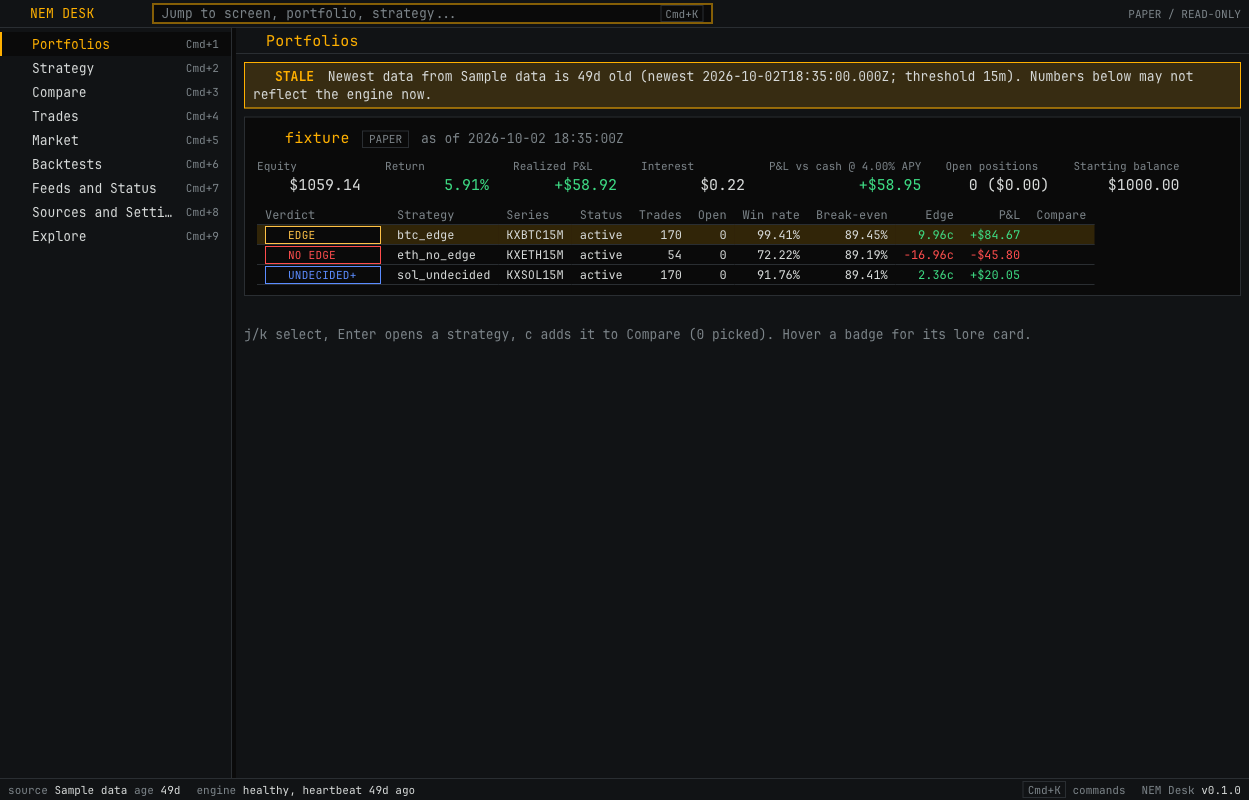
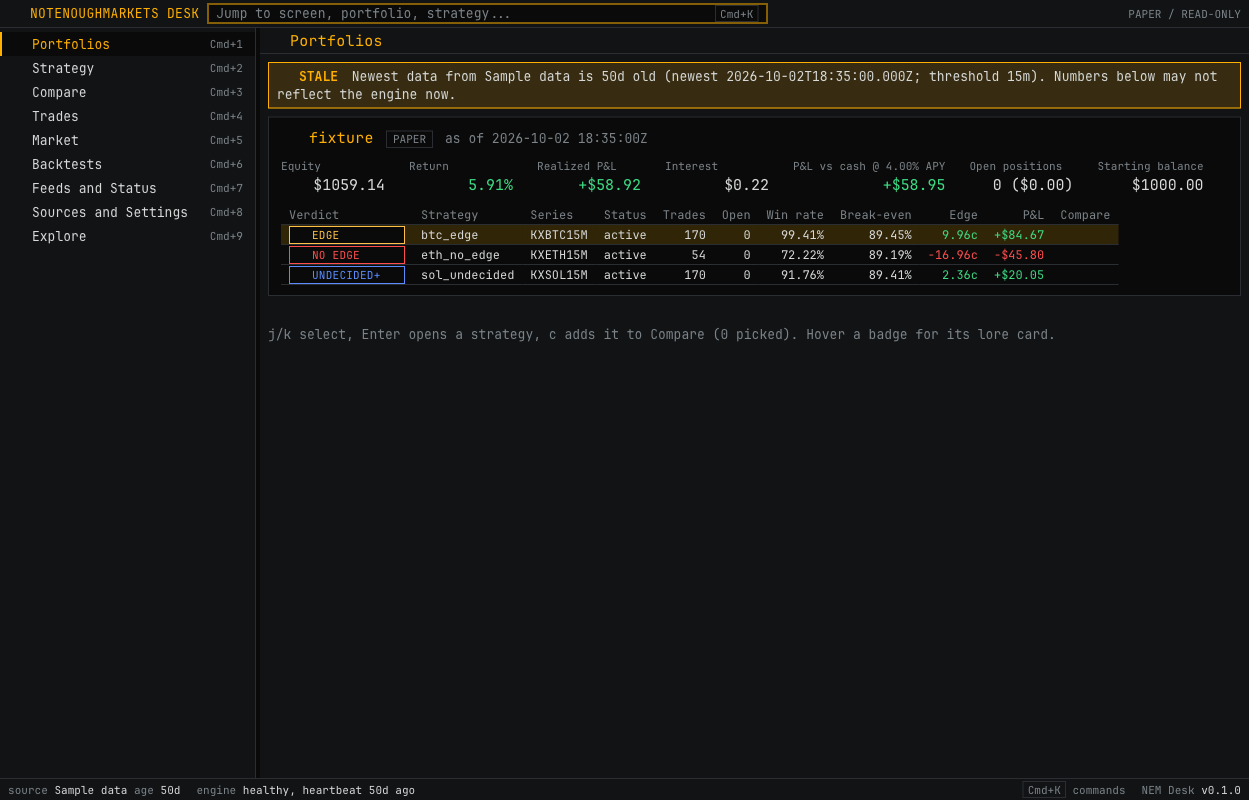
README: tutorial with NEM Desk screenshots; desk shows full NotEnoughMarkets name, wider nav

diff --git a/apps/desk/e2e/screenshots.spec.ts b/apps/desk/e2e/screenshots.spec.ts
@@ -52,15 +52,21 @@ test.afterAll(async () => {
 async function shot(name: string): Promise<void> {
   // The sample DB's absolute path (Market screen) becomes repo-relative; after that nothing
   // private may be on screen: no home folder, no OS user name.
-  await page.evaluate((prefix) => {
-    const walker = document.createTreeWalker(document.body, NodeFilter.SHOW_TEXT);
-    for (let n = walker.nextNode(); n !== null; n = walker.nextNode()) {
-      if (n.textContent?.includes(prefix) === true) n.textContent = n.textContent.replaceAll(prefix, "");
-    }
-  }, `${repoRoot}/`);
+  // The throwaway profile lives in the OS temp folder; show it as the app's data folder.
+  await page.evaluate(
+    ([prefix, profile]) => {
+      const walker = document.createTreeWalker(document.body, NodeFilter.SHOW_TEXT);
+      for (let n = walker.nextNode(); n !== null; n = walker.nextNode()) {
+        if (n.textContent?.includes(profile) === true) n.textContent = n.textContent.replaceAll(profile, "<app data>");
+        if (n.textContent?.includes(prefix) === true) n.textContent = n.textContent.replaceAll(prefix, "");
+      }
+    },
+    [`${repoRoot}/`, join(work, "profile")] as const,
+  );
   const text = await page.evaluate(() => document.body.innerText);
   expect(text).not.toContain(homedir());
   expect(text.toLowerCase()).not.toContain(userInfo().username.toLowerCase());
+  expect(text).not.toContain(work);
   if (shotDir === undefined) return;
   await page.mouse.move(0, 0);
   await page.screenshot({ path: resolve(appDir, shotDir, `${name}.png`), scale: "css", animations: "disabled" });
@@ -107,6 +113,8 @@ async function tour(visit: (name: string) => Promise<void>): Promise<void> {
 }
 
 test("load sample data", async () => {
+  await expect(page.getByRole("button", { name: "Load sample data" })).toBeVisible();
+  await shot("welcome");
   await page.getByRole("button", { name: "Load sample data" }).click();
   await expect(page.getByRole("region", { name: "Portfolio fixture" })).toBeVisible();
 });
@@ -126,6 +134,16 @@ test("main screens with pixel accents on", async () => {
   if (shotDir !== undefined) {
     await page.screenshot({ path: resolve(appDir, shotDir, "lore-card.png"), scale: "css", animations: "disabled" });
   }
+  // Sources and Settings, and the command palette, for the README tutorial.
+  await page.keyboard.press("Escape");
+  await page.keyboard.press(`${mod}+8`);
+  await expect(page.getByRole("table", { name: "Sources" })).toBeVisible();
+  await shot("settings");
+  await page.keyboard.press(`${mod}+k`);
+  await page.keyboard.type("explore KXHIGH");
+  await expect(page.getByRole("dialog")).toBeVisible();
+  await shot("palette");
+  await page.keyboard.press("Escape");
 });
 
 test("pixel accents off: no pixel font, icon or pixel frame on any screen", async () => {

diff --git a/apps/desk/src/renderer/state/settings.ts b/apps/desk/src/renderer/state/settings.ts
@@ -54,7 +54,7 @@ export const useSettings = create<SettingsState>()(
     (set) => ({
       pixelAccents: true,
       fontSize: FONT_SIZE_DEFAULT,
-      navWidth: 232,
+      navWidth: 256,
       setPixelAccents: (on) => set({ pixelAccents: on }),
       setFontSize: (px) => set({ fontSize: clampFontSize(px) }),
       setNavWidth: (px) => set({ navWidth: clampNav(px) }),

diff --git a/apps/desk/src/renderer/shell/Shell.tsx b/apps/desk/src/renderer/shell/Shell.tsx
@@ -96,7 +96,7 @@ export function Shell() {
       <header className="command-bar">
         <span className="command-brand">
           <PixelIcon name="desk" />
-          <span className="pixel-font">NEM DESK</span>
+          <span className="pixel-font">NOTENOUGHMARKETS DESK</span>
         </span>
         <button
           type="button"

diff --git a/apps/desk/src/renderer/styles/app.css b/apps/desk/src/renderer/styles/app.css
@@ -148,9 +148,8 @@ html[data-pixel="on"] :is(.pixel-border, .card, .panel-box, .state) {
   align-items: center;
   gap: 6px;
   color: var(--amber);
-  width: 10.5em;
+  flex-shrink: 0;
   white-space: nowrap;
-  overflow: hidden;
 }
 .command-trigger {
   flex: 1;

diff --git a/README.md b/README.md
@@ -14,7 +14,11 @@ A template for Kalshi algorithmic trading.
 > It is meant to be an all-in-one home for automated prediction market trading.
 
 > [!NOTE]
-> **Beta.** You can record live Kalshi data, paper-trade on it with external feeds, get statistics and CSV/Google Sheets reports, and run it 24/7 on a server today. Live trading is still to come. See [Roadmap](#roadmap).
+> **Beta.** You can record live Kalshi data, paper-trade on it with external feeds, get statistics and CSV/Google Sheets reports, run it 24/7 on a server, and browse everything in the **NEM Desk** desktop app today. Live trading is still to come. See [Roadmap](#roadmap).
+
+![NEM Desk showing three paper strategies with their verdicts](apps/desk/docs/screenshots/portfolios.png)
+
+**Contents:** [Tutorial](#tutorial) · [How it's organized](#how-its-organized) · [Reading the statistics](#reading-the-statistics) · [Reports](#reports-csv-json-google-sheets) · [Running 24/7](#running-247) · [NEM Desk](#nem-desk) · [Roadmap](#roadmap)
 
 ## What is this for?
 
@@ -27,6 +31,96 @@ How do you test it? Given the constraints of the strategy, a coding agent (Claud
 - **No new infrastructure every time.** Reuse the same engine for every idea.
 - **Common parameters** (stricter entry, timing, sizing) so you can tweak your strategy as you go.
 - **Easy comparison** of your current strategies against previous ones.
+
+## Tutorial
+
+From nothing to a paper-trading strategy you can watch in a desktop app. No Kalshi account is needed for any of it.
+
+### 1. Install and run the demo
+
+You need `git`, `make` and [uv](https://docs.astral.sh/uv/) (`curl -LsSf https://astral.sh/uv/install.sh | sh`); uv installs the right Python by itself.
+
+```bash
+git clone https://github.com/ahanqiliu903/not-enough-markets.git && cd not-enough-markets
+make setup                 # install dependencies
+make demo                  # replay ~2h of bundled BTC/ETH data through examples/portfolios/
+```
+
+The demo prints a statistics block per strategy (see [Reading the statistics](#reading-the-statistics)).
+
+### 2. Open NEM Desk
+
+NEM Desk is a read-only desktop app for everything the engine exports. Build and start it (Node 24; prebuilt downloads aren't published yet):
+
+```bash
+cd apps/desk && npm ci && npm run dev
+```
+
+On first launch there's no data yet. **Load sample data** opens a bundled example; **Add folder...** points it at your own `out/` folder (step 5).
+
+![First launch: no data source yet, with Load sample data and Add folder buttons](apps/desk/docs/screenshots/welcome.png)
+
+### 3. Read a strategy
+
+Each portfolio card lists its strategies with a verdict badge: **edge**, **no edge** or **undecided**. Open one (click, or `j`/`k` then Enter) to see win rate vs break-even, edge per contract, how far the sequential test has come, and the P&L curve.
+
+![Strategy screen: win rate and edge intervals vs break-even, sequential test progress, P&L and drawdown](apps/desk/docs/screenshots/strategy.png)
+
+The question is always *win rate vs break-even after fees*. A strategy at 99% wins can still lose money if it pays 99.5c per contract. [Reading the statistics](#reading-the-statistics) explains every number.
+
+### 4. Paper-trade your own idea
+
+Find a market first. Explore (`Cmd/Ctrl+9`, or type `explore` in the command palette, `Cmd/Ctrl+K`) browses Kalshi's public markets with their order books and settlement rules. [docs/kalshi-tickers.txt](docs/kalshi-tickers.txt) lists common series too. Always read a market's rules before trading it.
+
+![Command palette searching Kalshi daily-high series](apps/desk/docs/screenshots/palette.png)
+
+Then, from the repo root:
+
+```bash
+uv run nem init                                          # first portfolio (asks name + balance)
+uv run nem strategy add paper fav90 --series KXBTC15M    # appends a template; edit it in portfolios/paper.yaml
+uv run nem validate                                      # checks every file and plugin
+uv run nem run                                           # paper-trade on live Kalshi prices, recording as it goes
+```
+
+Working with a coding agent? Point it at [AGENTS.md](AGENTS.md): it turns a plain-English hypothesis into a portfolio file, reads the settlement rules back to you, and shows the break-even math before anything trades.
+
+`uv run nem help` lists every command with its options; `uv run nem help run` shows one in detail. More: `nem portfolio new|list|show`, `nem replay --data data/nem.db` to run portfolios over recorded data, `nem export` to save recordings as a portable file.
+
+### 5. Watch it in the desk
+
+```bash
+uv run nem report --every 5m       # writes out/<portfolio>/*.csv plus out/summary.json and out/status.json
+```
+
+In NEM Desk, **Sources and Settings** (`Cmd/Ctrl+8`) → **Add folder...** → pick `out/` (or the repo root). The desk refreshes as the files change. Running on a server? The same screen syncs `out/` over SSH, or reads the published Google Sheet.
+
+![Sources and Settings: folder sources, VPS sync over SSH, Google Sheet](apps/desk/docs/screenshots/settings.png)
+
+### 6. Get suggested settings, once there's data
+
+After weeks (not hours) of recording, sweep a few settings of a strategy:
+
+```bash
+uv run nem suggest paper fav90 --data data/nem.db \
+  --grid signal.threshold=0.86,0.88,0.90,0.92 --grid gates.0.value=0.94,0.96,0.98 --save
+```
+
+- Each `--grid` is a setting (a dotted path into the strategy, list items by position) and the values to try. Keep it to one or two settings with a handful of values.
+- The data is split in time: settings are chosen on the earliest 70% (`--holdout 0.3`) and only checked on the rest, never chosen from it.
+- The choice favors a broad region of decent settings over the single best cell, shrinks small samples toward zero edge, and treats variants with fewer than `--min-trades` (30) trades as unknown.
+- The result is `suggested`, `rejected` (nothing looked profitable, or it clearly lost on the later data) or `insufficient` (not enough trades). It prints a train vs test table and the grid.
+- `--write` appends the suggestion as `<strategy>_suggested` to the portfolio file, next to the original, so both paper-trade side by side. `--save` keeps the run for the desk's **Backtests** screen:
+
+![Backtests: sweep heatmap with the chosen cell and trade counts, train vs held-out test](apps/desk/docs/screenshots/backtests.png)
+
+### 7. Keep it running
+
+Put it on a small server ([Running 24/7](#running-247)) and check on it from **Feeds and Status** (`Cmd/Ctrl+7`): process heartbeats, halts and what each strategy has been doing.
+
+![Feeds and Status: engine processes, heartbeats, per-strategy activity](apps/desk/docs/screenshots/status.png)
+
+"Undecided after 40 trades" is the expected answer for weeks. Near 90c, telling a 2c edge from none takes over a thousand trades.
 
 ## How it's organized
 
@@ -108,76 +202,6 @@ Positions are held to settlement for now. Exits before settlement (stop-loss, ta
 
 Especially nowadays, it's very easy for them to give optimistic results. The workflow includes a backtest only to reject strategies that show clearly negative results, and the suggested settings are just a sensible starting point. Paper trading is a better indicator.
 
-## Design principles
-
-- **Same code for backtest, paper and live.** Only the data sources (market and feeds) and the broker change, so a strategy can't behave differently in replay than it does live.
-- **No look-ahead.** Signals and gates only see results that settled, and feed values that were published, *before* the current time. This is enforced in one place and tested.
-- **Every signal is logged with a reason**, including the ones that were skipped, so you can measure what each gate actually did.
-- **Kalshi's fees and interest are part of every number.** Paper fills charge Kalshi's taker fee (rounded up to the cent, per order) and walk the real orderbook, so entry prices include slippage. Edge and break-even win rate are computed after fees. Paper portfolios can accrue Kalshi's interest (APY on cash and open positions, accrued daily), so a strategy has to beat simply holding cash to look good.
-- **Idempotent orders.** Order IDs are deterministic, so a retry can never double-fill.
-- **Fail safe.** Risk checks fail closed. Each gate declares whether it fails open or closed. Risk limits use `null` for "disabled", never `0`.
-- **Secrets only from environment variables.** Nothing secret is ever in a config file or a commit; [gitleaks](https://github.com/gitleaks/gitleaks) runs on every commit and in CI.
-
-## Roadmap
-
-| | Milestone | What it adds |
-|---|---|---|
-| ✅ | **M0 Skeleton** | Packaging (uv), lint (ruff), strict typing (pyright), tests (pytest), secret scanning, CI |
-| ✅ | **M1 Core** | Portfolio/strategy config with validation, plugin registry, SQLite store, look-ahead-safe strategy context, Kalshi window-code math |
-| ✅ | **M2 Market data** | Kalshi read client and auth, `nem record` to collect market snapshots and settlements, replay from recorded data |
-| ✅ | **M3 Paper trading** | The trading loop; plugin interfaces for signals, gates, sizing, risk and feeds; paper broker with Kalshi fees, realistic fills and interest accrual; `extreme_favorite`, `max_entry_price`, `time_in_window`, `fixed` / `percent` / `kelly` sizing; `nem init` / `nem portfolio` / `nem strategy` commands; `make demo` |
-| ✅ | **M4 Stats & reporting** | Win rate with confidence intervals vs break-even, P&L, drawdown, "enough trades to decide yet?" test, CSV + Google Sheets reports |
-| ✅ | **M5 24/7 operation** | systemd services and runbook, one process for trading + recording, config hot-reload, `nem status` / `nem halt` / `nem resume` |
-| ✅ | **M6 External feeds** | Coinbase spot and NWS forecast feeds, recorded by `known_at`; market strikes recorded with snapshots; `feed_agrees` and `feed_threshold` gates |
-| ✅ | **M7 Backtest & suggested settings** | `nem replay` over recorded market and feed data through the same loop; `nem suggest` sweeps a small grid in one pass, picks a stable region on the earlier data, and checks it on later data it never saw |
-| ⬜ | **M8 Live trading** | Live broker on Kalshi (demo first), risk manager, budgets across live portfolios |
-| ⬜ | **M9 Docs** | Lessons from running live, "write a signal / feed" guides, a worked case study |
-
-Later: exits before settlement, deeper agent tooling (hypothesis in plain English → portfolio config), and a website view of portfolios and strategies.
-
-## Quickstart
-
-No Kalshi account needed for any of this. You need `git`, `make` and [uv](https://docs.astral.sh/uv/) (`curl -LsSf https://astral.sh/uv/install.sh | sh`); uv installs the right Python by itself.
-
-```bash
-git clone https://github.com/ahanqiliu903/not-enough-markets.git && cd not-enough-markets
-make setup                 # install dependencies
-make demo                  # replay ~2h of bundled BTC/ETH data through examples/portfolios/
-```
-
-Paper-trade your own idea:
-
-```bash
-uv run nem init                                          # first portfolio (asks name + balance)
-uv run nem strategy add paper fav90 --series KXBTC15M    # appends a template; edit it in portfolios/paper.yaml
-uv run nem validate                                      # checks every file and plugin
-uv run nem run                                           # paper-trade on live Kalshi prices, recording as it goes
-uv run nem summary                                       # statistics per strategy (see below)
-```
-
-Keep it running on a server: see [Running 24/7](#running-247).
-
-Which series to trade: [docs/kalshi-tickers.txt](docs/kalshi-tickers.txt) lists the crypto 15-minute and daily temperature series, with their settlement sources (always read a market's rules before trading it). Working with a coding agent? Point it at [AGENTS.md](AGENTS.md).
-
-`uv run nem help` lists every command with its options; `uv run nem help run` shows one in detail.
-
-More: `nem portfolio new|list|show`, `nem replay --data data/nem.db` to run portfolios over recorded data, `nem export` to save recordings as a portable file.
-
-### Suggested starting settings
-
-Once you've recorded data (weeks, not hours), sweep a few settings of a strategy:
-
-```bash
-uv run nem suggest paper fav90 --data data/nem.db \
-  --grid signal.threshold=0.86,0.88,0.90,0.92 --grid gates.0.value=0.94,0.96,0.98
-```
-
-- Each `--grid` is a setting (a dotted path into the strategy, list items by position) and the values to try. Keep it to one or two settings with a handful of values.
-- The data is split in time: settings are chosen on the earliest 70% (`--holdout 0.3`) and only checked on the rest, never chosen from it.
-- The choice favors a broad region of decent settings over the single best cell, shrinks small samples toward zero edge, and treats variants with fewer than `--min-trades` (30) trades as unknown.
-- The result is `suggested`, `rejected` (nothing looked profitable, or it clearly lost on the later data) or `insufficient` (not enough trades). It prints a train vs test table and the grid.
-- `--write` appends the suggestion as `<strategy>_suggested` to the portfolio file, next to the original, so both paper-trade side by side.
-
 ## Reading the statistics
 
 `nem summary` (and `make demo`) print this for every strategy:
@@ -201,7 +225,7 @@ uv run nem suggest paper fav90 --data data/nem.db \
 
 Tune the test with `--edge 0.03`, `--alpha`, `--power`.
 
-## Reports (CSV, Google Sheets)
+## Reports (CSV, JSON, Google Sheets)
 
 **Sample:** [live paper-trading report](https://docs.google.com/spreadsheets/d/1ky1-ilFsvnDLwWVcjeTkvoWh3sUKh4DMgYDnd9wsVy8/edit?usp=sharing)
 (Google Sheets, view only, updated every 5 minutes from a NEM server).
@@ -212,6 +236,8 @@ Reporting runs as its own process, so reports keep flowing even when no strategy
 uv run nem report                 # print and publish once
 uv run nem report --every 5m      # keep publishing
 ```
+
+Every `nem report` also writes `summary.json` and `status.json` into `out/` (`--json-dir` to change it), which NEM Desk reads alongside the CSVs.
 
 Each portfolio chooses where its reports go, with a top-level `reporting:` list in its
 file in `portfolios/` (next to `starting_balance`, not inside `strategies:`):
@@ -250,11 +276,55 @@ Edit portfolio files while it runs: changes are picked up on the next tick, and 
 
 ## NEM Desk
 
-A desktop app (macOS, Windows; read-only apart from an opt-in halt/resume) for looking at what the engine exports: portfolios with verdict badges, strategy detail, trades, backtest sweeps, recorded markets, engine status, and Kalshi's public markets. It reads a folder of `out/` files, a server it syncs over SSH, or the published Google Sheet; it never computes statistics, places orders or holds Kalshi keys. See [apps/desk/README.md](apps/desk/README.md) for install, screens and shortcuts.
+A desktop app (macOS, Windows) for looking at what the engine exports. It's read-only apart from an opt-in halt/resume over SSH: it never computes statistics, places orders or holds Kalshi keys.
 
-| Portfolios | Backtests heatmap |
-|---|---|
-| ![NEM Desk Portfolios screen](apps/desk/docs/screenshots/portfolios.png) | ![NEM Desk Backtests heatmap](apps/desk/docs/screenshots/backtests.png) |
+| Key | Screen | What it shows |
+|---|---|---|
+| Cmd/Ctrl+1 | Portfolios | Equity, P&L vs holding cash, strategies with verdict badges |
+| Cmd/Ctrl+2 | Strategy | Win rate and edge intervals vs break-even, sequential test, P&L and drawdown, calibration, signal reasons |
+| Cmd/Ctrl+3 | Compare | 2 to 4 strategies (retired included) side by side |
+| Cmd/Ctrl+4 | Trades | Sortable, filterable blotter with CSV export |
+| Cmd/Ctrl+5 | Market | Recorded markets: top of book, depth, feed values at the time they were known |
+| Cmd/Ctrl+6 | Backtests | `nem suggest` sweeps: heatmap, chosen cell, train vs held-out test |
+| Cmd/Ctrl+7 | Feeds and Status | Engine health, heartbeats, halts |
+| Cmd/Ctrl+8 | Sources and Settings | Folders, VPS sync, Google Sheet, display options, diagnostics |
+| Cmd/Ctrl+9 | Explore | Kalshi's public markets, order books and settlement rules |
+
+| Trades | Market | Explore |
+|---|---|---|
+| ![Trades](apps/desk/docs/screenshots/trades.png) | ![Market](apps/desk/docs/screenshots/market.png) | ![Explore](apps/desk/docs/screenshots/explore.png) |
+
+- **Sources:** a local `out/` folder, a server synced over SSH (system `ssh` + `rsync`, your existing keys), or a Google Sheet shared as "Anyone with the link: Viewer". A snapshot `nem.db` next to the source feeds the Market screen.
+- **Install:** build from source (`cd apps/desk && npm ci && npm run dist` for macOS `.dmg`s, `npm run dist:win` for Windows). Builds are unsigned, so each OS warns once; [apps/desk/README.md](apps/desk/README.md#install) has the first-open steps, every shortcut, and how each source works.
+- **Data contract:** the engine and the desk only meet through versioned schemas in [contract/](contract/README.md) (CSV columns, JSON documents, units, timestamps), so either side can change without silently breaking the other.
+
+## Design principles
+
+- **Same code for backtest, paper and live.** Only the data sources (market and feeds) and the broker change, so a strategy can't behave differently in replay than it does live.
+- **No look-ahead.** Signals and gates only see results that settled, and feed values that were published, *before* the current time. This is enforced in one place and tested.
+- **Every signal is logged with a reason**, including the ones that were skipped, so you can measure what each gate actually did.
+- **Kalshi's fees and interest are part of every number.** Paper fills charge Kalshi's taker fee (rounded up to the cent, per order) and walk the real orderbook, so entry prices include slippage. Edge and break-even win rate are computed after fees. Paper portfolios can accrue Kalshi's interest (APY on cash and open positions, accrued daily), so a strategy has to beat simply holding cash to look good.
+- **Idempotent orders.** Order IDs are deterministic, so a retry can never double-fill.
+- **Fail safe.** Risk checks fail closed. Each gate declares whether it fails open or closed. Risk limits use `null` for "disabled", never `0`.
+- **Secrets only from environment variables.** Nothing secret is ever in a config file or a commit; [gitleaks](https://github.com/gitleaks/gitleaks) runs on every commit and in CI.
+
+## Roadmap
+
+| | Milestone | What it adds |
+|---|---|---|
+| ✅ | **M0 Skeleton** | Packaging (uv), lint (ruff), strict typing (pyright), tests (pytest), secret scanning, CI |
+| ✅ | **M1 Core** | Portfolio/strategy config with validation, plugin registry, SQLite store, look-ahead-safe strategy context, Kalshi window-code math |
+| ✅ | **M2 Market data** | Kalshi read client and auth, `nem record` to collect market snapshots and settlements, replay from recorded data |
+| ✅ | **M3 Paper trading** | The trading loop; plugin interfaces for signals, gates, sizing, risk and feeds; paper broker with Kalshi fees, realistic fills and interest accrual; `extreme_favorite`, `max_entry_price`, `time_in_window`, `fixed` / `percent` / `kelly` sizing; `nem init` / `nem portfolio` / `nem strategy` commands; `make demo` |
+| ✅ | **M4 Stats & reporting** | Win rate with confidence intervals vs break-even, P&L, drawdown, "enough trades to decide yet?" test, CSV + Google Sheets reports |
+| ✅ | **M5 24/7 operation** | systemd services and runbook, one process for trading + recording, config hot-reload, `nem status` / `nem halt` / `nem resume` |
+| ✅ | **M6 External feeds** | Coinbase spot and NWS forecast feeds, recorded by `known_at`; market strikes recorded with snapshots; `feed_agrees` and `feed_threshold` gates |
+| ✅ | **M7 Backtest & suggested settings** | `nem replay` over recorded market and feed data through the same loop; `nem suggest` sweeps a small grid in one pass, picks a stable region on the earlier data, and checks it on later data it never saw |
+| ✅ | **NEM Desk** | Desktop app over the engine's exports; data contract 1.0 (versioned CSV/JSON schemas); `nem report` writes JSON for the desk |
+| ⬜ | **M8 Live trading** | Live broker on Kalshi (demo first), risk manager, budgets across live portfolios |
+| ⬜ | **M9 Docs** | Lessons from running live, "write a signal / feed" guides, a worked case study |
+
+Later: exits before settlement, and deeper agent tooling (hypothesis in plain English → portfolio config).
 
 ## Development
 
@@ -264,6 +334,8 @@ Requires [uv](https://docs.astral.sh/uv/) and [gitleaks](https://github.com/gitl
 make setup    # install dependencies and pre-commit hooks
 make check    # lint, type-check, test
 make fmt      # auto-fix lint and formatting
+
+cd apps/desk && npm ci && npm run check   # desk: lint, type-check, unit tests (Node 24)
 ```
 
 ## Requirements
